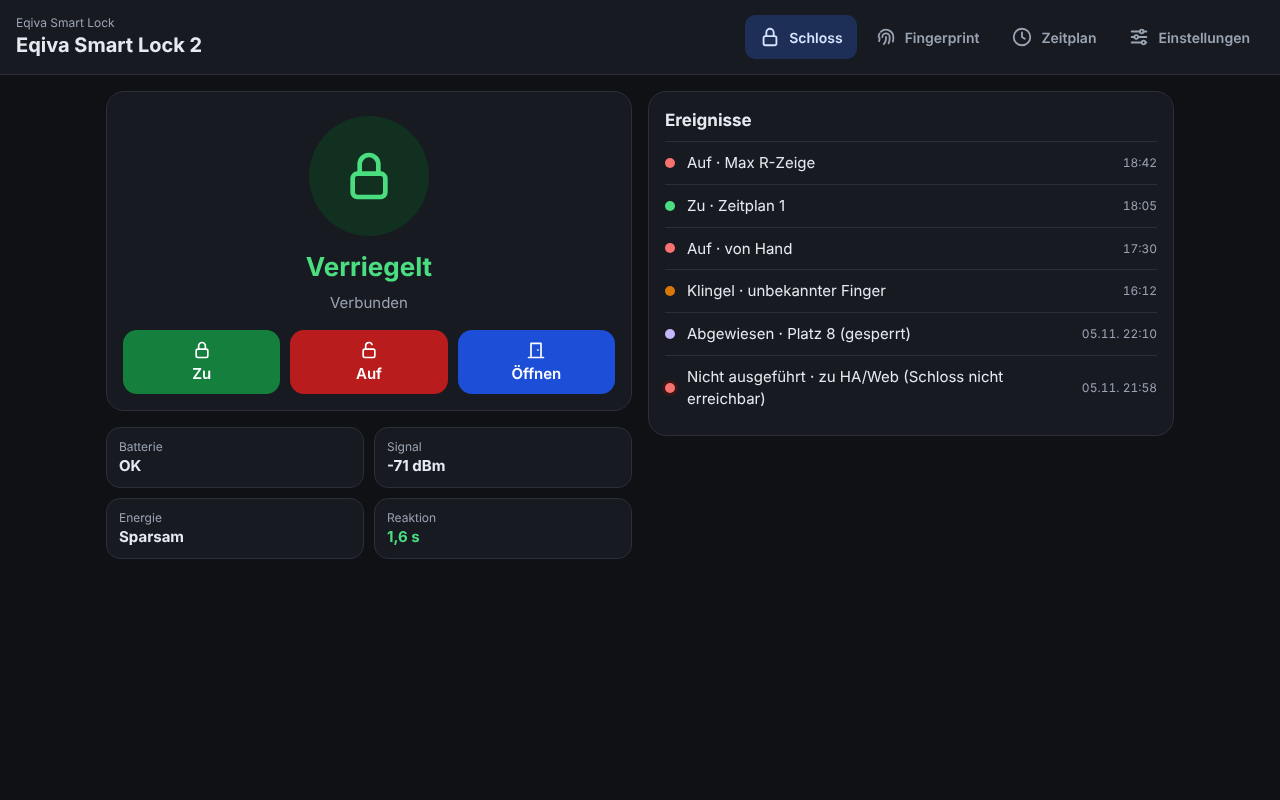
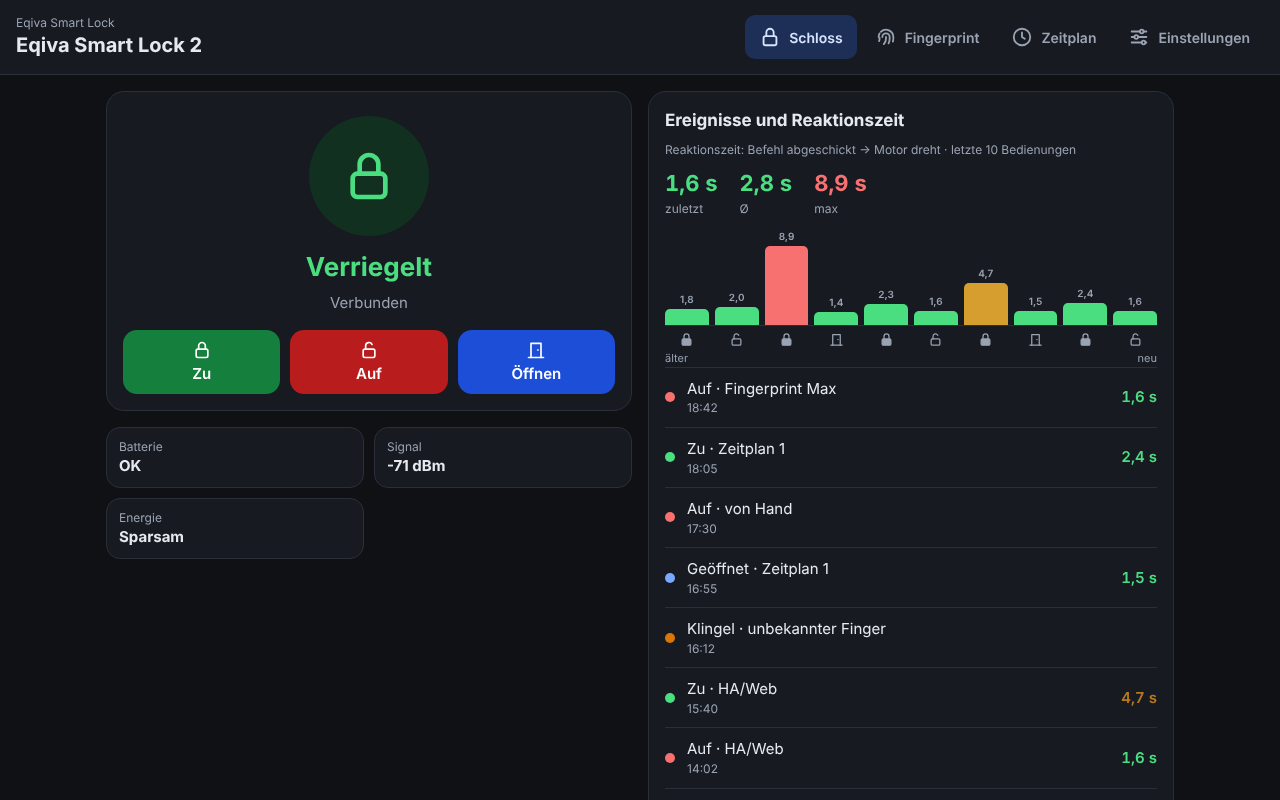
3.5.2: Startseite mit Karte "Ereignisse und Reaktionszeit"
- Komponente hängt die gemessene Reaktionszeit an das Ereignis an, z. B. "18:05 🔒 Zeitplan 1 (2,4 s)"
- Web-App: Startseite zeigt zuletzt/Ø/max, Balken mit Piktogrammen und darunter alle Ereignisse mit Uhrzeit; Reaktionszeit rechts in Ampelfarbe
- Karte "Reaktionszeit" unter Einstellungen und Kachel "Reaktion" entfallen
- Versionsnummern auf 3.5.2, CHANGELOG, ANLEITUNG, PATCH-NOTES, FORK-CHANGES, README und Screenshots aktualisiert

Claude-Session: https://claude.ai/code/session_01YXeYDb8hKaoF5eCYLR3NkB

diff --git a/examples/eqiva-smart-lock-app.js b/examples/eqiva-smart-lock-app.js
@@ -1,5 +1,5 @@
 // Eqiva Smart Lock – Web-App für die ESPHome-Web-GUI
-// Version 3.5.1 (2026-11-09) – alle Dateien mit gleicher Version gehören zusammen (inkl. eqiva_components)
+// Version 3.5.2 (2026-11-09) – alle Dateien mit gleicher Version gehören zusammen (inkl. eqiva_components)
 // Wird über "web_server: js_include: eqiva-smart-lock-app.js" in die Firmware eingebettet (gzip, ca. 15 KB).
 // Liest alle Werte live über /events (Server-Sent Events) und bedient über die REST-Schnittstelle
 // des ESP (POST /<domain>/<Name>/<aktion>). Läuft ohne Internet. Die ESPHome-Tabelle bleibt als
@@ -7,7 +7,7 @@
 // Fehlt ein Paket (Fingerprint, Zeitplan, …), blendet die App den Bereich einfach aus.
 (function () {
   'use strict';
-  const APP_VERSION = '3.5.1';
+  const APP_VERSION = '3.5.2';
   const GUIDE_URL = 'https://github.com/2nice4u/esphome-components-eqiva/blob/main/docs/ANLEITUNG.md';
 
   // ---------------------------------------------------------------- Zustand
@@ -106,7 +106,10 @@
     if (!raw || raw === '–') return [];
     return raw.split(' · ').map((e) => {
       const m = e.match(/^(?:(\d\d\.\d\d\.) )?(?:(\d\d:\d\d) )?(.*)$/) || [];
-      let t = m[3] || e, kind = 'info', label = t;
+      let t = m[3] || e, kind = 'info', rt = NaN;
+      const d = t.match(/^(.*) \((\d+),(\d) s\)$/);    // Reaktionszeit am Ende, z. B. "🔒 HA/Web (2,4 s)"
+      if (d) { t = d[1]; rt = +(d[2] + '.' + d[3]); }
+      let label = t;
       const rules = [
         [/^🖐\s*🔒/, 'locked', 'Zu · von Hand'], [/^🖐\s*🔓/, 'unlocked', 'Auf · von Hand'], [/^🖐\s*🚪/, 'opened', 'Geöffnet · von Hand'],
         [/^🔒\s*/, 'locked', 'Zu · '], [/^🔓\s*/, 'unlocked', 'Auf · '], [/^🚪\s*/, 'opened', 'Geöffnet · '],
@@ -121,7 +124,7 @@
           break;
         }
       }
-      return { day: m[1] || '', time: m[2] || '', kind, label };
+      return { day: m[1] || '', time: m[2] || '', kind, label, rt };
     });
   }
 
@@ -235,6 +238,22 @@
 
   // ---------------------------------------------------------------- Ansichten
   const rtClass = (v) => v <= 4 ? 'g' : v <= 8 ? 'y' : 'r';
+  // Reaktionszeit-Kopf der Startseiten-Karte: zuletzt/Ø/max und Balken mit Piktogrammen.
+  // "Reaktionszeiten" je Eintrag: Aktion|Sekunden|Quelle, durch ";" getrennt (z = zu, a = auf, o = öffnen)
+  function reactionHead() {
+    if (!has('text_sensor/Reaktionszeiten')) return '';
+    const RA = { z: ['lockF', 'zu'], a: ['unlock', 'auf'], o: ['door', 'öffnen'] };
+    const r = txt('text_sensor/Reaktionszeiten').split(';').map((s) => { const p = s.split('|'); return { act: p[0], v: Number(p[1]), src: p[2] || '' }; })
+      .filter((e) => RA[e.act] && isFinite(e.v));
+    if (!r.length) return '';
+    const f = (v) => v.toFixed(1).replace('.', ',') + ' s', vals = r.map((e) => e.v), last = r[r.length - 1];
+    const avg = vals.reduce((a, b) => a + b, 0) / vals.length, mx = Math.max(...vals), top = Math.max(mx, 5);
+    return '<p class="muted small">Reaktionszeit: Befehl abgeschickt → Motor dreht · letzte ' + r.length + ' Bedienungen</p>' +
+      '<div class="rtnum"><b class="' + rtClass(last.v) + '">' + f(last.v) + '</b><span>zuletzt</span><b class="' + rtClass(avg) + '">' + f(avg) + '</b><span>Ø</span><b class="' + rtClass(mx) + '">' + f(mx) + '</b><span>max</span></div>' +
+      '<div class="rtbars" role="img" aria-label="Reaktionszeiten">' + r.map((e) => '<div class="' + rtClass(e.v) + '" style="height:' + Math.max(6, e.v / top * 100) + '%" title="' + RA[e.act][1] + ' · ' + f(e.v) + (e.src ? ' · ' + esc(e.src) : '') + '"><i>' + e.v.toFixed(1).replace('.', ',') + '</i></div>').join('') + '</div>' +
+      '<div class="rtic-row">' + r.map((e) => '<span>' + icon(RA[e.act][0], 15) + '</span>').join('') + '</div>' +
+      '<div class="rtax"><span>älter</span><span>neu</span></div>';
+  }
   function viewStart() {
     const st = txt('text_sensor/Lock Status', '');
     const unpaired = /^[①②]/.test(txt('text_sensor/Einrichtungsstatus'));
@@ -257,12 +276,14 @@
     if (has('binary_sensor/Batterie schwach')) tiles.push(['Batterie', on('binary_sensor/Batterie schwach') ? 'Schwach' : 'OK', on('binary_sensor/Batterie schwach') ? 'warn' : '']);
     if (has('sensor/Schloss Signal')) { const v = Number(val('sensor/Schloss Signal', NaN)); tiles.push(['Signal', isFinite(v) ? Math.round(v) + ' dBm' : '–', '']); }
     if (has('select/Energiemodus')) tiles.push(['Energie', txt('select/Energiemodus'), '']);
-    if (has('sensor/Reaktionszeit')) { const v = Number(val('sensor/Reaktionszeit', NaN)); tiles.push(['Reaktion', isFinite(v) ? v.toFixed(1).replace('.', ',') + ' s' : '–', rtClass(v)]); }
     const tilesHtml = tiles.length ? '<div class="tiles">' + tiles.map((t) => '<div class="tile ' + t[2] + '"><span>' + esc(t[0]) + '</span><b>' + esc(t[1]) + '</b></div>').join('') + '</div>' : '';
-    const ev = events();
-    const evHtml = has('text_sensor/Ereignisse') ? card('<h2>Ereignisse</h2>' + (ev.length ? '<ul class="ev">' + ev.map((e) =>
-      '<li><span class="dot k-' + e.kind + '"></span><span class="et">' + esc(e.label) + '</span><span class="tm">' + esc((e.day ? e.day + ' ' : '') + e.time) + '</span></li>').join('') + '</ul>'
-      : '<p class="muted">Noch keine Ereignisse seit dem Start.</p>')) : '';
+    const ev = events(), rtHead = reactionHead();
+    const f1 = (v) => v.toFixed(1).replace('.', ',') + ' s';
+    const evHtml = has('text_sensor/Ereignisse') || rtHead ? card('<h2>' + (rtHead ? 'Ereignisse und Reaktionszeit' : 'Ereignisse') + '</h2>' + rtHead +
+      (ev.length ? '<ul class="ev evrt">' + ev.map((e) =>
+        '<li><span class="dot k-' + e.kind + '"></span><span class="et">' + esc(e.label) + '<small>' + esc((e.day ? e.day + ' ' : '') + e.time) + '</small></span>' +
+        '<span class="rtv ' + (isFinite(e.rt) ? rtClass(e.rt) : '') + '">' + (isFinite(e.rt) ? f1(e.rt) : '') + '</span></li>').join('') + '</ul>'
+        : '<p class="muted">Noch keine Ereignisse seit dem Start.</p>')) : '';
     const setup = txt('text_sensor/Einrichtungsstatus');
     const setupHtml = setup && !/^✅/.test(setup) && !/TESTMODUS/.test(setup) ? card('<span class="lbl">Einrichtung</span><p>' + esc(setup) + '</p>' +
       (has('button/BLE Pair _Start_') && /^[①②]/.test(setup) ? '<div class="foot">' + btn('pair', 'Jetzt koppeln', 'b pri') + '</div>' :
@@ -588,22 +609,6 @@
     add('sensor/Uptime', 'Laufzeit', (v) => { v = +v; const d = Math.floor(v / 86400), hh = Math.floor(v % 86400 / 3600), mm = Math.floor(v % 3600 / 60); return (d ? d + ' T ' : '') + hh + ' h ' + mm + ' min'; });
     add('text_sensor/Pairing-Info', 'Pairing');
     add('sensor/Fingerabdrücke gespeichert', 'Fingerabdrücke', (v) => Math.round(v));
-    if (has('text_sensor/Reaktionszeiten')) {
-      // Format je Eintrag: Aktion|Sekunden|Quelle, Einträge durch ";" getrennt (z = zu, a = auf, o = öffnen)
-      const RA = { z: ['lockF', 'zu'], a: ['unlock', 'auf'], o: ['door', 'öffnen'] };
-      const r = txt('text_sensor/Reaktionszeiten').split(';').map((s) => { const p = s.split('|'); return { act: p[0], v: Number(p[1]), src: p[2] || '' }; })
-        .filter((e) => RA[e.act] && isFinite(e.v));
-      if (r.length) {
-        const f = (v) => v.toFixed(1).replace('.', ',') + ' s', vals = r.map((e) => e.v), last = r[r.length - 1];
-        const avg = vals.reduce((a, b) => a + b, 0) / vals.length, mx = Math.max(...vals), top = Math.max(mx, 5);
-        h += card('<h3>Reaktionszeit</h3><p class="muted small">Befehl abgeschickt → Motor dreht · letzte ' + r.length + ' Bedienungen</p>' +
-          '<div class="rtnum"><b class="' + rtClass(last.v) + '">' + f(last.v) + '</b><span>zuletzt</span><b class="' + rtClass(avg) + '">' + f(avg) + '</b><span>Ø</span><b class="' + rtClass(mx) + '">' + f(mx) + '</b><span>max</span></div>' +
-          '<div class="rtbars" role="img" aria-label="Reaktionszeiten">' + r.map((e) => '<div class="' + rtClass(e.v) + '" style="height:' + Math.max(6, e.v / top * 100) + '%" title="' + RA[e.act][1] + ' · ' + f(e.v) + (e.src ? ' · ' + esc(e.src) : '') + '"><i>' + e.v.toFixed(1).replace('.', ',') + '</i></div>').join('') + '</div>' +
-          '<div class="rtic-row">' + r.map((e) => '<span>' + icon(RA[e.act][0], 15) + '</span>').join('') + '</div>' +
-          '<div class="rtax"><span>älter</span><span>neu</span></div>' +
-          '<ol class="rtlist">' + r.slice().reverse().map((e) => '<li><span>' + icon(RA[e.act][0], 18) + '</span><b>' + RA[e.act][1] + '</b><span class="muted">' + esc(e.src) + '</span><span class="' + rtClass(e.v) + '">' + f(e.v) + '</span></li>').join('') + '</ol>');
-      }
-    }
     h += card('<h3>Diagnose</h3>' + diag.join(''));
     h += '<div class="links"><a class="b lnk" href="' + GUIDE_URL + '" target="_blank" rel="noopener">' + icon('book', 18) + 'Anleitung</a>' +
       btn('expert', icon('table', 18) + 'Expertenansicht', 'b lnk') + '</div>';
@@ -846,8 +851,8 @@ html.eqa-expert #eqa-back{display:block}
 #eqa .rtbars div{flex:1;border-radius:5px 5px 0 0;position:relative}#eqa .rtbars div.g{background:var(--lk)}#eqa .rtbars div.y{background:#D69E2E}#eqa .rtbars div.r{background:var(--ul)}
 #eqa .rtbars i{position:absolute;top:-16px;left:50%;transform:translateX(-50%);font:600 10px system-ui,sans-serif;font-style:normal;color:var(--muted)}
 #eqa .rtax{display:flex;justify-content:space-between;font-size:11px;color:var(--muted);margin-top:4px}
+#eqa .evrt{margin-top:12px}#eqa .evrt li{align-items:center}#eqa .evrt .et small{display:block;font-size:12px;color:var(--muted)}#eqa .evrt .rtv{font-weight:600;font-variant-numeric:tabular-nums;min-width:48px;text-align:right}#eqa .evrt .rtv.g{color:var(--lk)}#eqa .evrt .rtv.y{color:#B7791F}#eqa .evrt .rtv.r{color:var(--ul)}
 #eqa .rtic-row{display:flex;gap:6px;margin-top:6px}#eqa .rtic-row span{flex:1;display:flex;justify-content:center;color:var(--muted)}
-#eqa .rtlist{list-style:none;margin:14px 0 0;padding:0;font-size:14px}#eqa .rtlist li{display:grid;grid-template-columns:22px auto 1fr auto;gap:8px;align-items:center;padding:7px 0;border-top:1px solid var(--line)}#eqa .rtlist li b{font-weight:600}#eqa .rtlist li span:last-child{font-weight:600;font-variant-numeric:tabular-nums}#eqa .rtlist .g{color:var(--lk)}#eqa .rtlist .y{color:#B7791F}#eqa .rtlist .r{color:var(--ul)}
 #eqa .tile{background:var(--card);border:1px solid var(--line);border-radius:14px;padding:10px 12px;display:flex;flex-direction:column;min-width:0}
 #eqa .tile span{font-size:12px;color:var(--muted)}#eqa .tile b{font-size:15px;white-space:nowrap;overflow:hidden;text-overflow:ellipsis}#eqa .tile.g b{color:var(--lk)}#eqa .tile.y b{color:#B7791F}#eqa .tile.r b{color:var(--ul)}#eqa .tile.warn{background:var(--wrb);color:var(--wr)}#eqa .tile.warn span{color:inherit}
 #eqa .ev{list-style:none;margin:0;padding:0}#eqa .ev li{display:flex;align-items:center;gap:12px;padding:10px 0;border-top:1px solid var(--line)}

diff --git a/components/eqiva_key_ble/eqiva_key_ble.cpp b/components/eqiva_key_ble/eqiva_key_ble.cpp
@@ -587,6 +587,7 @@ void EqivaKeyBle::sendCommand(CommandType command) {
     reaction_pending_ = true;
     reaction_act_ = command == LOCK ? 'z' : (command == UNLOCK ? 'a' : 'o');
     reaction_src_ = ev_pending_src_.substr(0, 16);
+    ev_reaction_ms_ = 0;
     last_command_ms_ = now;
     last_command_valid_ = true;
     cmd_source_.clear();
@@ -967,6 +968,7 @@ void EqivaKeyBle::on_lock_state_(uint8_t st) {
       list += buf + reaction_hist_[i].src;
     }
     this->publish_(this->reaction_list_sensor_, list);
+    ev_reaction_ms_ = ms ? ms : 1;       // fürs Ereignis "🔒 Quelle (2,4 s)"
     ESP_LOGI(TAG, "Reaktionszeit: %.1f s", ms / 1000.0f);
   }
   if (st == 1) {                         // MOVING
@@ -979,8 +981,16 @@ void EqivaKeyBle::on_lock_state_(uint8_t st) {
   if (ev_pending_ >= 0) {
     const uint8_t want = ev_pending_ == LOCK ? 3 : (ev_pending_ == UNLOCK ? 2 : 4);
     if (st == want) {
-      this->log_event(std::string(icon[st]) + " " + ev_pending_src_);
+      std::string dur;
+      if (ev_reaction_ms_ > 0) {         // Reaktionszeit mit Dezimalkomma anhängen
+        char b[16];
+        snprintf(b, sizeof(b), " (%.1f s)", ev_reaction_ms_ / 1000.0f);
+        for (char *c = b; *c; c++) if (*c == '.') *c = ',';
+        dur = b;
+      }
+      this->log_event(std::string(icon[st]) + " " + ev_pending_src_ + dur);
       ev_pending_ = -1;
+      ev_reaction_ms_ = 0;
     } else if (ev_moved_ && !(ev_pending_ == OPEN && st == 2)) {
       // nach der Fahrt ein anderer Endzustand -> Befehl nicht ausgeführt
       this->log_event(std::string("✗ ") + (want == 3 ? "zu" : want == 2 ? "auf" : "öffnen") + " " +

diff --git a/components/eqiva_key_ble/eqiva_key_ble.h b/components/eqiva_key_ble/eqiva_key_ble.h
@@ -28,7 +28,7 @@ namespace eqiva_key_ble {
 using namespace esp32_ble_client;
 
 // Version der gepatchten Komponente (gehört zu den Beispiel-YAMLs mit gleicher Version)
-#define EQIVA_PATCH_VERSION "3.5.1"
+#define EQIVA_PATCH_VERSION "3.5.2"
 
 // Patch-Konstanten
 static const uint32_t SEND_TIMEOUT_MS = 3000;      // Timeout für Fragment-Write / Nonce-Antwort
@@ -120,6 +120,7 @@ class EqivaKeyBle : public BLEClientBase {
     std::string ev_pending_src_;
     uint32_t ev_pending_at_{0};
     bool ev_moved_{false};               // seit dem Befehl MOVING gesehen
+    uint32_t ev_reaction_ms_{0};         // gemessene Reaktionszeit des laufenden Befehls, 0 = keine
     uint32_t last_command_ms_{0};
     bool last_command_valid_{false};
     uint8_t ev_last_state_{255};         // letzter Endzustand (2/3/4), 255 = unbekannt

diff --git a/docs/ANLEITUNG.md b/docs/ANLEITUNG.md
@@ -1,6 +1,6 @@
 # Eqiva Smart Lock – Anleitung & Hilfe
 
-Gilt für Version 3.5.1 (Komponente, Pakete und Web-App mit gleicher Versionsnummer).
+Gilt für Version 3.5.2 (Komponente, Pakete und Web-App mit gleicher Versionsnummer).
 Änderungen: [CHANGELOG.md](../CHANGELOG.md)
 
 ## Die Web-App
@@ -10,7 +10,7 @@ Sie läuft direkt auf dem ESP, auch ohne Internet, am Handy und am PC.
 
 | Bereich | Inhalt |
 |---|---|
-| **Schloss** | Zustand, Buttons Zu · Auf · Öffnen, Batterie, Empfang, Energiemodus, Reaktionszeit, „Ereignisse“ |
+| **Schloss** | Zustand, Buttons Zu · Auf · Öffnen, Batterie, Empfang, Energiemodus, „Ereignisse und Reaktionszeit“ |
 | **Fingerprint** | Personen mit ihren Fingern; Finger antippen = Aktion ändern, neu anlernen, löschen; Stift = Person umbenennen; „+ Anlernen“ = Assistent |
 | **Zeitplan** | bis zu 6 Zeitpläne als Liste: antippen = bearbeiten, Schalter Ein/Aus, + Zeitplan |
 | **Einstellungen** | Einrichtung (Pairing, Schlossantrieb, Neustart), Energiemodus, Türgriff, Fingerprint, Sabotage-Erkennung, Darstellung (Automatisch · Hell · Dunkel), Diagnose |
@@ -75,7 +75,7 @@ Was „Öffnen“ macht, hängt von der Auswahl **„Türgriff außen“** (Schl
 
 > Gilt für alle Wege: Web-GUI, Home Assistant (`lock.open`) und Fingerprint mit Aktion „Öffnen“. Beim kompletten Öffnen meldet „Lock Status“ kurz **OPENED**, beim reinen Aufschließen nicht.
 
-**Ereignisse** zeigt die letzten 10 Ereignisse, neueste zuerst, z. B. `18:42 🔓 Max R-Daumen · 18:05 🔒 Zeitplan 1 · 17:30 🖐 🔓 von Hand · 06.11. 22:10 🔔 unbekannter Finger`. **HA/Web** = Home Assistant oder die Web-GUI · **🖐 von Hand** = Schlüssel, Drehknauf oder Taste am Schloss · **✗** = Befehl nicht ausgeführt (Grund in Klammern) · ⛔ abgewiesen · ❓ unbekannter Finger · ⚠ Sabotage. Ältere Einträge fallen weg, wenn die 255 Zeichen von Home Assistant voll sind; alle stehen im Log. „Von Hand“ erkennt der ESP erst, wenn das Schloss den neuen Zustand meldet – im Energiemodus „Sparsam“ also beim nächsten Verbinden. Nach einem Neustart ist die Liste leer.
+**Ereignisse** zeigt die letzten 10 Ereignisse, neueste zuerst, z. B. `18:42 🔓 Max R-Daumen (1,6 s) · 18:05 🔒 Zeitplan 1 (2,4 s) · 17:30 🖐 🔓 von Hand · 06.11. 22:10 🔔 unbekannter Finger`. **HA/Web** = Home Assistant oder die Web-GUI · **🖐 von Hand** = Schlüssel, Drehknauf oder Taste am Schloss · **✗** = Befehl nicht ausgeführt (Grund in Klammern) · ⛔ abgewiesen · ❓ unbekannter Finger · ⚠ Sabotage. Ältere Einträge fallen weg, wenn die 255 Zeichen von Home Assistant voll sind; alle stehen im Log. „Von Hand“ erkennt der ESP erst, wenn das Schloss den neuen Zustand meldet – im Energiemodus „Sparsam“ also beim nächsten Verbinden. Nach einem Neustart ist die Liste leer.
 
 ## 5. Eqiva-App zusätzlich nutzen
 
@@ -103,11 +103,10 @@ Das Schloss erlaubt nur **eine** Bluetooth-Verbindung gleichzeitig. Vor der App 
 
 Gemessen wird die Zeit vom Absetzen des Befehls (App, HA, Fingerprint, Zeitplan) bis das Schloss meldet, dass der Motor läuft. Im Sparmodus ist der Verbindungsaufbau mit dabei, bei bestehender Verbindung nicht.
 
-- **Startseite:** Kachel „Reaktion“ mit dem letzten Wert.
-- **Einstellungen → Reaktionszeit:** zuletzt, Ø und max der letzten 10 Bedienungen, darunter ein Balkendiagramm mit Piktogrammen (zu = ausgefülltes Schloss, auf = offenes Schloss, öffnen = Tür).
-- Darunter die Liste der letzten 10 Bedienungen, neueste oben: Aktion, Quelle (z. B. HA/Web, Zeitplan, Fingerprint, Taster) und Dauer in Ampelfarbe.
+- **Startseite → Ereignisse und Reaktionszeit:** zuletzt, Ø und max der letzten 10 Bedienungen und ein Balkendiagramm mit Piktogrammen (zu = ausgefülltes Schloss, auf = offenes Schloss, öffnen = Tür).
+- Darunter alle Ereignisse mit Uhrzeit (auch Handbedienung, Klingel, Abweisungen, Fehler). Bei Bedienungen mit Messung steht rechts die Reaktionszeit.
 - Farben: **grün** bis 4 s · **gelb** bis 8 s · **rot** darüber.
-- Der Sensor „Reaktionszeit“ (Sekunden) ist in Home Assistant mit Verlauf verfügbar. Die Liste „Reaktionszeiten“ enthält die letzten 10 Bedienungen mit Aktion, Dauer und Quelle. Nach einem Neustart ist sie leer.
+- Der Sensor „Reaktionszeit“ (Sekunden) ist in Home Assistant mit Verlauf verfügbar. Die Liste „Reaktionszeiten“ enthält die letzten 10 Bedienungen mit Aktion, Dauer und Quelle. Die Ereignisse enthalten die Reaktionszeit im Text, z. B. „18:05 🔒 Zeitplan 1 (2,4 s)“. Nach einem Neustart sind beide Listen leer.
 
 Der Motorlauf bis zum Endzustand (ca. 3–4 s) ist Mechanik und nicht enthalten.
 

diff --git a/README.md b/README.md
@@ -8,7 +8,7 @@ Protokoll und Verschlüsselung sind unverändert. Die wichtigsten Änderungen:
 - **Energiemodi:** Schnell / Ausgewogen / Sparsam, live umschaltbar
 - **Web-App direkt auf dem ESP:** Bedienung, Pairing per QR-Text, Schlossantrieb einstellen, Kopplung entfernen (Schloss tauschen)
 - **Ereignisprotokoll:** wer wann auf- oder zugeschlossen hat, von Hand, Klingel, Sabotage (letzte 10 Ereignisse)
-- **Reaktionszeit:** Zeit vom Befehl bis der Motor dreht, mit Ø, max und Ampel in der App
+- **Ereignisse und Reaktionszeit:** alle Ereignisse mit Uhrzeit auf der Startseite, dazu die Zeit vom Befehl bis der Motor dreht, mit Ø, max und Ampel
 - **Pairing abgesichert:** bei Fehlschlag oder Abbruch bleibt die bisherige Kopplung, Hinweis „Schloss nicht erreichbar“
 - **Neu in der Komponente:** RSSI-Sensor der Verbindung, `on_paired`-Auslöser, klare Meldungen bei fehlendem Pairing oder Pairing-Modus
 - **Beispiel-Konfiguration** in [`examples/`](examples/): Energiemodi, Testmodus ohne Schloss und optionale Pakete für R503-Fingerprint, Status-LED, Statistik und bis zu 6 Zeitpläne
@@ -21,9 +21,9 @@ Versionen und Änderungen: [CHANGELOG.md](CHANGELOG.md)
 Die Bedienung läuft über eine eigene Web-App direkt auf dem ESP – am Handy und am PC, hell oder dunkel,
 auch ohne Home Assistant und ohne Internet. Die ESPHome-Tabelle bleibt als „Expertenansicht“ erreichbar.
 
-| Schloss (hell) | Zeitplan | Reaktionszeit |
+| Schloss (hell) | Zeitplan | Ereignisse und Reaktionszeit |
 |---|---|---|
-| ![Schloss](docs/img/gh-schloss-hell.png) | ![Zeitplan](docs/img/gh-zeitplan-hell.png) | ![Reaktionszeit](docs/img/gh-reaktionszeit-hell.png) |
+| ![Schloss](docs/img/gh-schloss-hell.png) | ![Zeitplan](docs/img/gh-zeitplan-hell.png) | ![Ereignisse und Reaktionszeit](docs/img/gh-reaktionszeit-hell.png) |
 
 | Zeitplan bearbeiten | Schloss (dunkel) | Fingerprint (dunkel) |
 |---|---|---|
@@ -43,7 +43,7 @@ Die Bilder zeigen Testdaten, keine echten Personen oder Bedienungen.
 
    ```yaml
    external_components:
-     - source: github://2nice4u/esphome-components-eqiva@v3.5.1
+     - source: github://2nice4u/esphome-components-eqiva@v3.5.2
    ```
 
    YAMLs und Komponente gehören zusammen. Für ein Update die Dateien des neuen

diff --git a/FORK-CHANGES.md b/FORK-CHANGES.md
@@ -1,6 +1,6 @@
 # Änderungen in diesem Fork
 
-**Version 3.5.1** (2026-11-09) – Komponente, Beispiel-YAMLs und Anleitung tragen dieselbe Versionsnummer.
+**Version 3.5.2** (2026-11-09) – Komponente, Beispiel-YAMLs und Anleitung tragen dieselbe Versionsnummer.
 1.1.0: Fingerprint-Paket mit Zuordnung Person/Hand/Finger, Aktion pro Finger (inkl. Umschalten), Ring-Rückmeldung und Scan-Pause.
 1.1.1: Pinbelegung als Substitutions, R503-Stromabschaltung per PNP-Transistor (sensor_power_pin), mehrere Status-LEDs.
 1.2.0: Paket Zeitplan (2 Zeitpläne mit Uhrzeit, Wochentagen und Aktion, SNTP).
@@ -38,6 +38,7 @@
 3.4.0: Bis zu 6 Zeitpläne als Textfelder, Zeitplan-Liste mit Bearbeitungsfenster in der Web-App.
 3.5.0: Reaktionszeit (Befehl bis Motor läuft) als Sensor und Liste, Anzeige in der Web-App.
 3.5.1: Reaktionszeiten speichern Aktion (zu/auf/öffnen) und Quelle; Piktogramme in Balken und Liste der Web-App.
+3.5.2: Startseite mit Karte „Ereignisse und Reaktionszeit“, Reaktionszeit auch im Ereignistext.
 
 Basis: github.com/digaus/esphome-components-eqiva, Stand `main` vom 22.08.2026 (Fix für ESPHome 2026.8).
 
@@ -45,7 +46,7 @@ Basis: github.com/digaus/esphome-components-eqiva, Stand `main` vom 22.08.2026 (
 
 ```yaml
 external_components:
-  - source: github://DEIN-GITHUB-NAME/esphome-components-eqiva@v3.5.1
+  - source: github://DEIN-GITHUB-NAME/esphome-components-eqiva@v3.5.2
 ```
 
 Vollständiges Beispiel mit Web-GUI, Energiemodi, Pairing-Info, optionalem R503-Fingerprint und Status-LED:

diff --git a/CHANGELOG.md b/CHANGELOG.md
@@ -23,6 +23,20 @@ Die Nummern bis 1.3.0 wurden nicht ganz nach diesen Regeln vergeben; der Handlun
 dort nur die unter „Handlungsbedarf“ genannten Stellen übernehmen. Pakete, `app.js` und `eqiva_components/`
 werden von allen Schlössern gemeinsam genutzt und einfach ersetzt.
 
+## 3.5.2 – 2026-11-09
+
+### Neu
+- **Startseite: Karte „Ereignisse und Reaktionszeit“.** Oben zuletzt, Ø und max mit den 10 Balken und Piktogrammen,
+  darunter wie bisher alle Ereignisse mit Uhrzeit (auch Handbedienung, Klingel, Abweisungen, Fehler).
+  Bei Bedienungen mit Messung steht rechts die Reaktionszeit in Ampelfarbe.
+- Die Ereignisse enthalten die Reaktionszeit jetzt auch im Text, z. B. `18:05 🔒 Zeitplan 1 (2,4 s)` (auch in Home Assistant sichtbar).
+  Wegen der Grenze von 255 Zeichen passt dadurch eventuell ein Ereignis weniger in die Liste.
+- Die Karte „Reaktionszeit“ unter Einstellungen und die Kachel „Reaktion“ auf der Startseite entfallen (Werte stehen jetzt in der neuen Karte).
+
+### Update
+- Pakete, `app.js` und `eqiva_components/` ersetzen, flashen.
+- Eigene Hauptdatei: nur `config_version: "3.5.2"` setzen, sonst nichts ändern.
+
 ## 3.5.1 – 2026-11-09
 
 ### Neu

diff --git a/components/PATCH-NOTES.md b/components/PATCH-NOTES.md
@@ -1,6 +1,6 @@
 # Eqiva Key-BLE – gepatchte Version
 
-**Version 3.5.1** (2026-11-09) – Komponente mit Testmodus (simulate) und Ereignisprotokoll (`events`), Reaktionszeit (`reaction_time`, `reaction_list`), passend zu den Beispiel-YAMLs und der Anleitung mit gleicher Version.
+**Version 3.5.2** (2026-11-09) – Komponente mit Testmodus (simulate) und Ereignisprotokoll (`events`), Reaktionszeit (`reaction_time`, `reaction_list`), passend zu den Beispiel-YAMLs und der Anleitung mit gleicher Version.
 
 Basis: github.com/digaus/esphome-components-eqiva, Stand `main` vom 22.08.2026 (Fix für ESPHome 2026.8).
 
